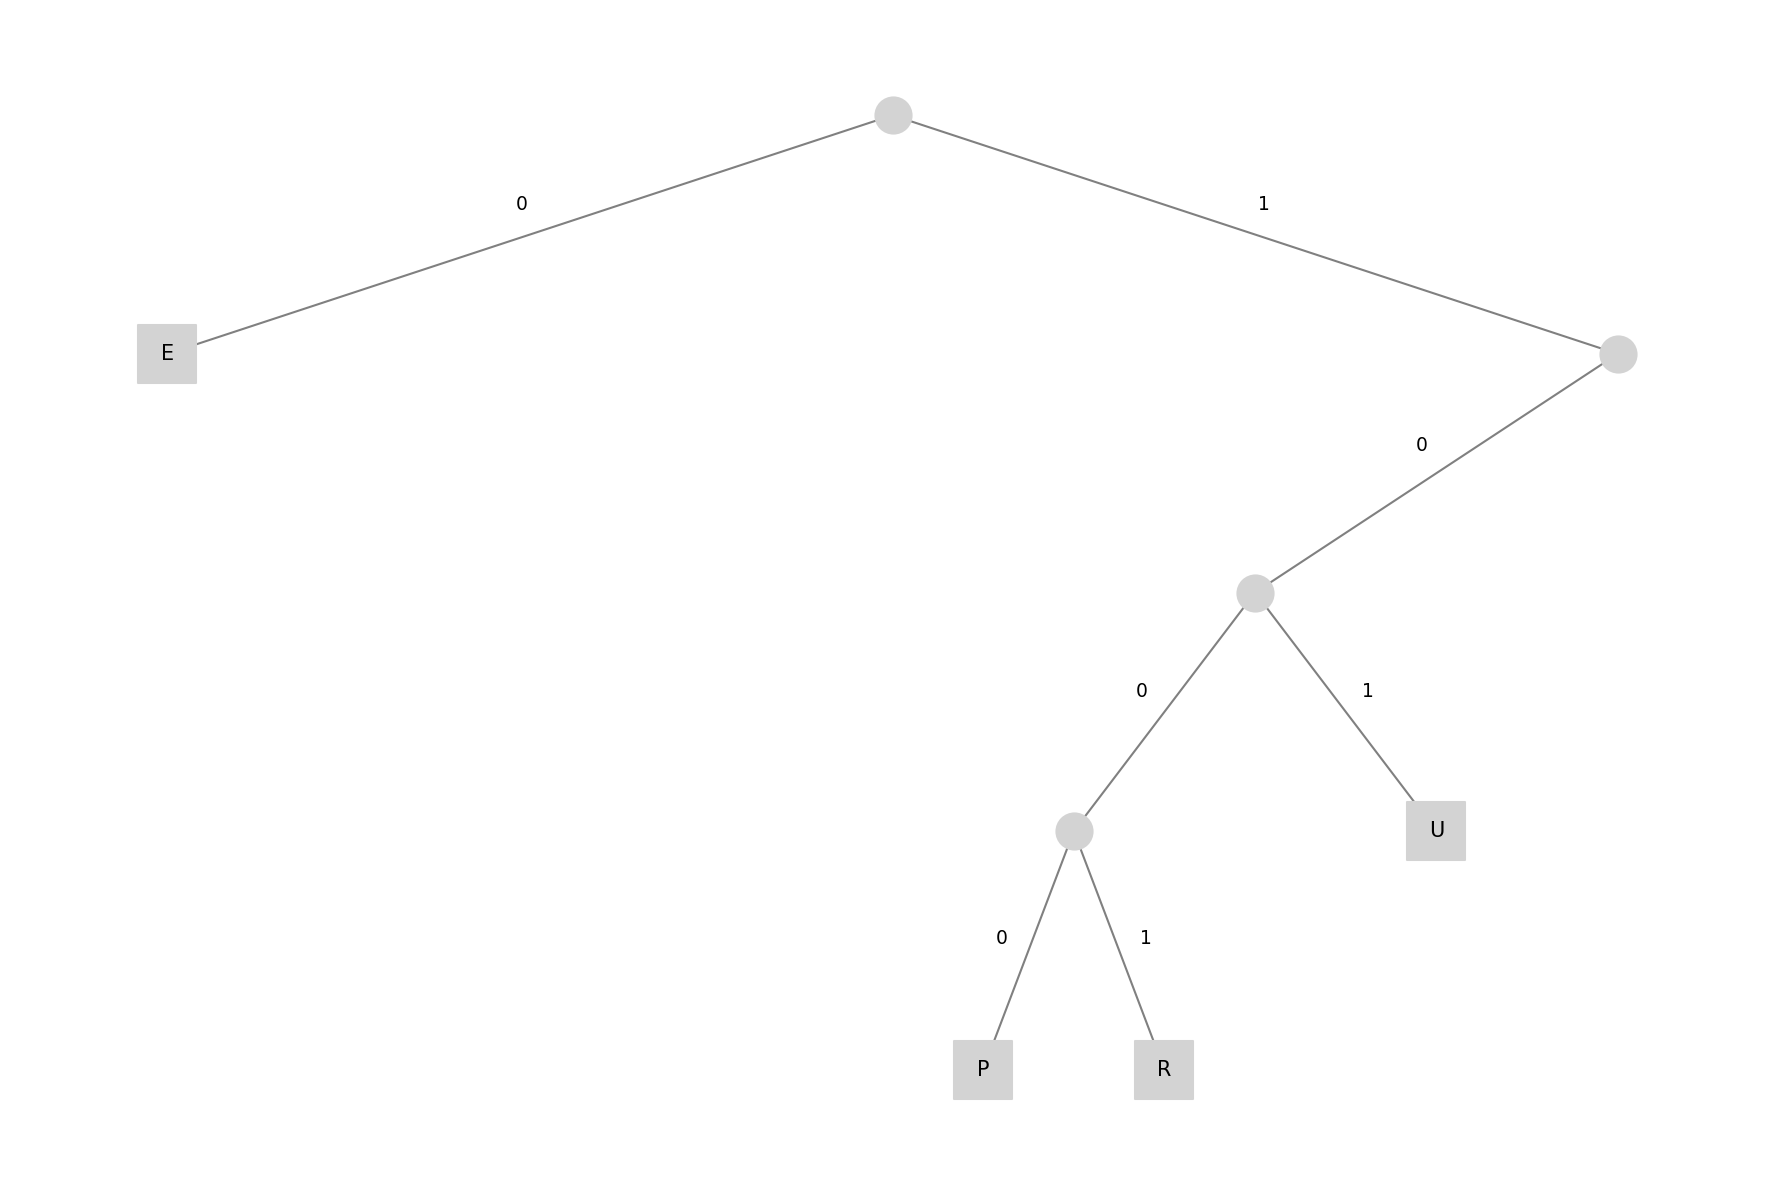
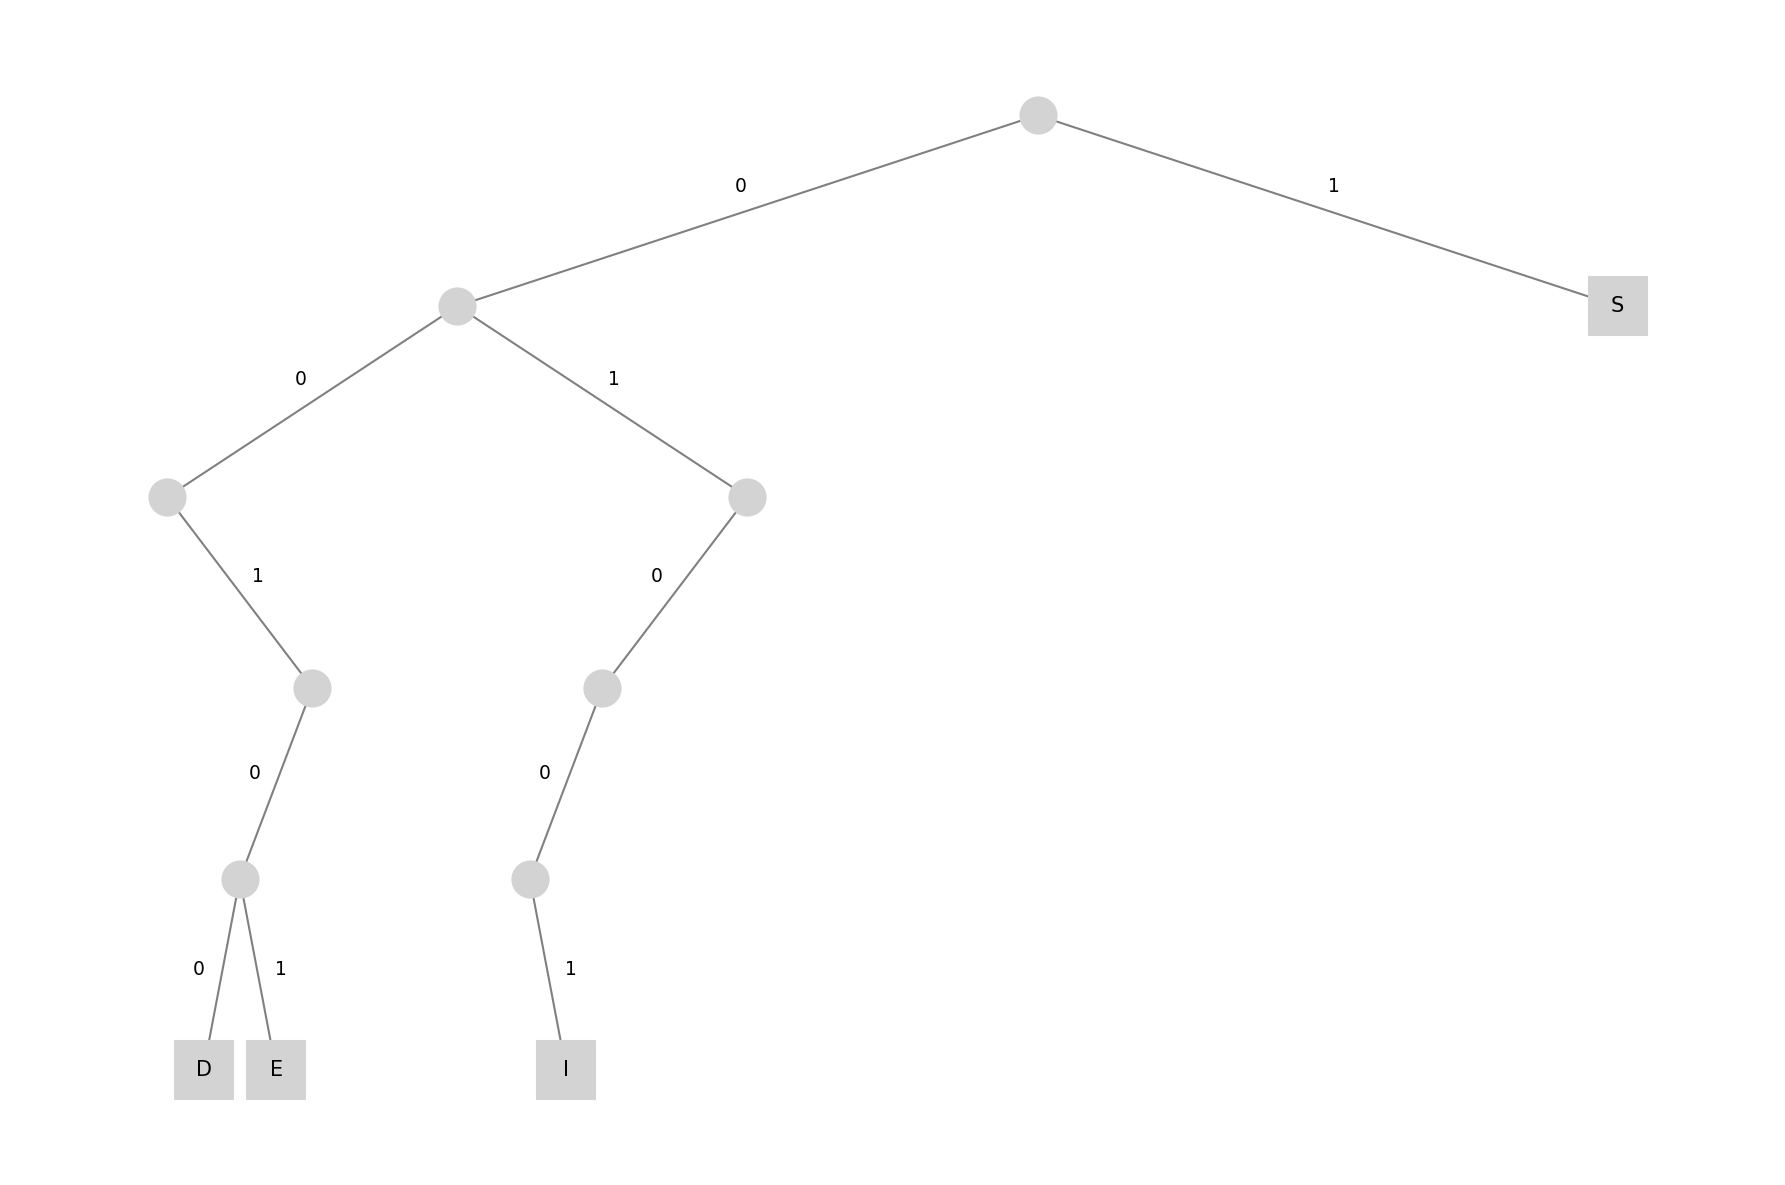
Fix: Tree visualization after key deletion (backend fix)

diff --git a/app/services/search/tree/multiple_residue_tree.py b/app/services/search/tree/multiple_residue_tree.py
@@ -228,25 +228,98 @@ class MultipleResidueTree(BaseTree):
 					edge = format(i, 'b').zfill(self.m)
 				self._build_graph(child, graph, node_id, edge, depth + 1, highlight_index)
 
-	def _compute_positions(
-		self, node: Optional[MultiNode], x: float, y: float, level: int, dx: float
+
+	def _calculate_width(self, node: Optional[MultiNode]) -> int:
+		"""
+		Calculate the width of a subtree for visualization.
+
+		Count the number of leaf nodes (nodes with letters) in the subtree.
+
+		Args:
+			node: The root of the subtree.
+
+		Returns:
+			The total width (number of leaf nodes) in the subtree.
+
+		"""
+		if node is None:
+			return 0
+		if node.letter is not None:
+			return 1
+		total = 0
+		for child in node.children:
+			total += self._calculate_width(child)
+		return total
+
+
+	def _compute_positions_interval(
+		self, node: Optional[MultiNode], left: float, right: float, y: float
 	):
 		"""
-		Compute node coordinates for visualization layout.
+		Compute node positions for visualization layout.
 
-		Distribute children horizontally according to
-		tree level and branching factor.
+		Assign x-coordinates based on the width of subtrees to ensure
+		proper spacing. Recursively compute positions for child nodes
+		within their allocated horizontal intervals.
+
+		Args:
+			node: The current node being positioned.
+			left: The left boundary of the horizontal interval for this node.
+			right: The right boundary of the horizontal interval for this node.
+			y: The vertical coordinate for this node.
+
 		"""
 		if node is None:
 			return
 		node_id = id(node)
+		x = (left + right) / 2
 		self._node_positions[node_id] = (x, y)
-		children = [c for c in node.children if c is not None]
-		if not children:
+		children_with_idx = [(i, child) for i, child in enumerate(node.children) if child is not None]
+		if not children_with_idx:
 			return
-		spacing = dx / (2 ** (level + 1))
+		child_widths = [self._calculate_width(child) for _, child in children_with_idx]
+		total_width = sum(child_widths)
+		if total_width == 0:
+			return
 		next_y = y - 1.5
-		total = len(children)
-		for i, child in enumerate(children):
-			offset = (i - (total - 1) / 2) * spacing
-			self._compute_positions(child, x + offset, next_y, level + 1, dx)
+		current_left = left
+		for (i, child), width in zip(children_with_idx, child_widths):
+			proportion = width / total_width
+			child_right = current_left + (right - left) * proportion
+			if len(children_with_idx) == 1:
+				shift = (right - left) * 0.15
+				msb = (i >> (self.m - 1)) & 1
+				child_center = (current_left + child_right) / 2
+				if msb == 1:
+					new_center = child_center + shift
+				else:
+					new_center = child_center - shift
+				half_width = (child_right - current_left) / 2
+				new_left = new_center - half_width
+				new_right = new_center + half_width
+				self._compute_positions_interval(child, new_left, new_right, next_y)
+			else:
+				self._compute_positions_interval(child, current_left, child_right, next_y)
+			current_left = child_right
+
+
+	def _compute_positions(
+		self,
+		node: Optional[MultiNode],
+		x: float,
+		y: float,
+		level: int,
+		dx: float,
+	):
+		"""
+		Compute the position of a child node based on the given parameters.
+
+		Args:
+			node: The current node for which the position is being computed.
+			x: The x-coordinate of the child node.
+			y: The y-coordinate of the child node.
+			level: The depth level of the child node in the tree.
+			dx: The horizontal spacing factor for positioning child nodes.
+
+		"""
+		self._compute_positions_interval(node, x - dx / 2, x + dx / 2, y)

diff --git a/app/services/search/tree/tree_tests.py b/app/services/search/tree/tree_tests.py
@@ -4,29 +4,46 @@ from app.services.search.tree.simple_residue_tree import SimpleResidueTree
 
 dt = DigitalTree(encoding='ABC')
 dt.create()
-dt.insert('P')
-dt.insert('R')
-dt.insert('U')
-dt.delete('P')
-print(dt.search('P'))
+dt.insert('D')
+dt.insert('E')
+dt.insert('S')
+dt.insert('I')
+dt.insert('H')
+dt.insert('O')
+dt.insert('M')
+dt.insert('A')
+dt.delete('D')
+# print(dt.search('A'))
 dt.plot('digital.png')
-dt.search_plot('R', 'destacado.png')
+dt.search_plot('I', 'digital_destacado.png')
 
 # Simple
 st = SimpleResidueTree(encoding='ABC')
 st.create()
-st.insert('P')
-st.insert('R')
-st.insert('U')
+st.insert('D')
 st.insert('E')
-st.delete('P')
+st.insert('S')
+st.insert('I')
+st.insert('H')
+st.delete('H')
+print(st.search('H'))
 st.plot('simple.png')
+st.search_plot('I', 'simple_destacado.png')
 
 # Múltiple
 mt = MultipleResidueTree(m=2, encoding='ABC')
 mt.create()
-mt.insert('P')
-mt.insert('R')
-mt.insert('U')
+mt.insert('D')
 mt.insert('E')
+mt.insert('S')
+mt.insert('I')
+mt.insert('H')
+mt.insert('O')
+mt.insert('M')
+mt.insert('A')
+mt.insert('R')
+mt.insert('N')
+# mt.delete('H')
+# print(mt.search('H'))
 mt.plot('multiple.png')
+mt.search_plot('I', 'multiple_destacado.png')

diff --git a/app/services/search/tree/simple_residue_tree.py b/app/services/search/tree/simple_residue_tree.py
@@ -95,10 +95,12 @@ class SimpleResidueTree(BaseTree):
 			bit = bits[depth]
 			if bit == '0':
 				child = node.left
+
 				def set_child(n):
 					return setattr(node, 'left', n)
 			else:
 				child = node.right
+
 				def set_child(n):
 					return setattr(node, 'right', n)
 
@@ -157,8 +159,9 @@ class SimpleResidueTree(BaseTree):
 			binary: Binary representation of the node to remove.
 
 		"""
+		bits = list(binary)
 
-		def remove(node: Optional[SimpleNode], bits: List[str], depth: int) -> Optional[SimpleNode]:
+		def remove(node: Optional[SimpleNode], depth: int) -> Optional[SimpleNode]:
 			if node is None:
 				return None
 			if depth == len(bits):
@@ -167,14 +170,14 @@ class SimpleResidueTree(BaseTree):
 				return node
 			bit = bits[depth]
 			if bit == '0':
-				node.left = remove(node.left, bits, depth + 1)
+				node.left = remove(node.left, depth + 1)
 			else:
-				node.right = remove(node.right, bits, depth + 1)
+				node.right = remove(node.right, depth + 1)
 			if node.letter is None and node.left is None and node.right is None:
 				return None
 			return node
 
-		self.root = remove(self.root, list(binary), 0)
+		self.root = remove(self.root, 0)
 
 	def _build_graph(
 		self,

diff --git a/app/services/search/tree/basic_tree.py b/app/services/search/tree/basic_tree.py
@@ -174,9 +174,7 @@ class BaseTree(BaseSearchService):
 		letter = letter.upper()
 		alfabeto = 'ABCDEFGHIJKLMNOPQRSTUVWXYZ'
 		if letter not in alfabeto:
-			raise ValueError(
-				f"Letra '{letter}' no válida. Use solo letras del alfabeto americano."
-			)
+			raise ValueError(f"Letra '{letter}' no válida. Use solo letras del alfabeto americano.")
 		return letter
 
 	def _letter_to_binary(self, letter: str) -> str:
@@ -208,7 +206,7 @@ class BaseTree(BaseSearchService):
 		elif self.encoding == 'ASCII':
 			return chr(int(binary, 2))
 		else:
-			raise ValueError(f"Codificación desconocida: {self.encoding}")
+			raise ValueError(f'Codificación desconocida: {self.encoding}')
 
 	def _rebuild_tree(self):
 		"""Rebuild the tree structure from the current data array."""
@@ -286,7 +284,7 @@ class BaseTree(BaseSearchService):
 			return []
 		for pos in positions:
 			self.data[pos - 1] = None
-		self._rebuild_tree()
+		self._delete_node(binary)
 		return positions
 
 	def search_plot(self, letter: str, filename: str = 'search_result.png'):

diff --git a/app/services/search/tree/digital_tree.py b/app/services/search/tree/digital_tree.py
@@ -127,6 +127,24 @@ class DigitalTree(BaseTree):
 				return [current.index + 1]
 		return []
 
+	def delete(self, letter: str) -> List[int]:
+		"""Delete a letter from the tree and return its positions.
+
+		Override the base delete method to include tree restructuring
+		after deletion.
+
+		Args:
+			letter: The letter to delete.
+
+		Returns:
+			List[int]: List of positions where the letter was found and deleted.
+
+		"""
+		positions = super().delete(letter)
+		if positions:
+			self._rebuild_tree()
+		return positions
+
 	def _delete_node(self, binary: str) -> None:
 		"""
 		Remove a node matching the given binary value.
